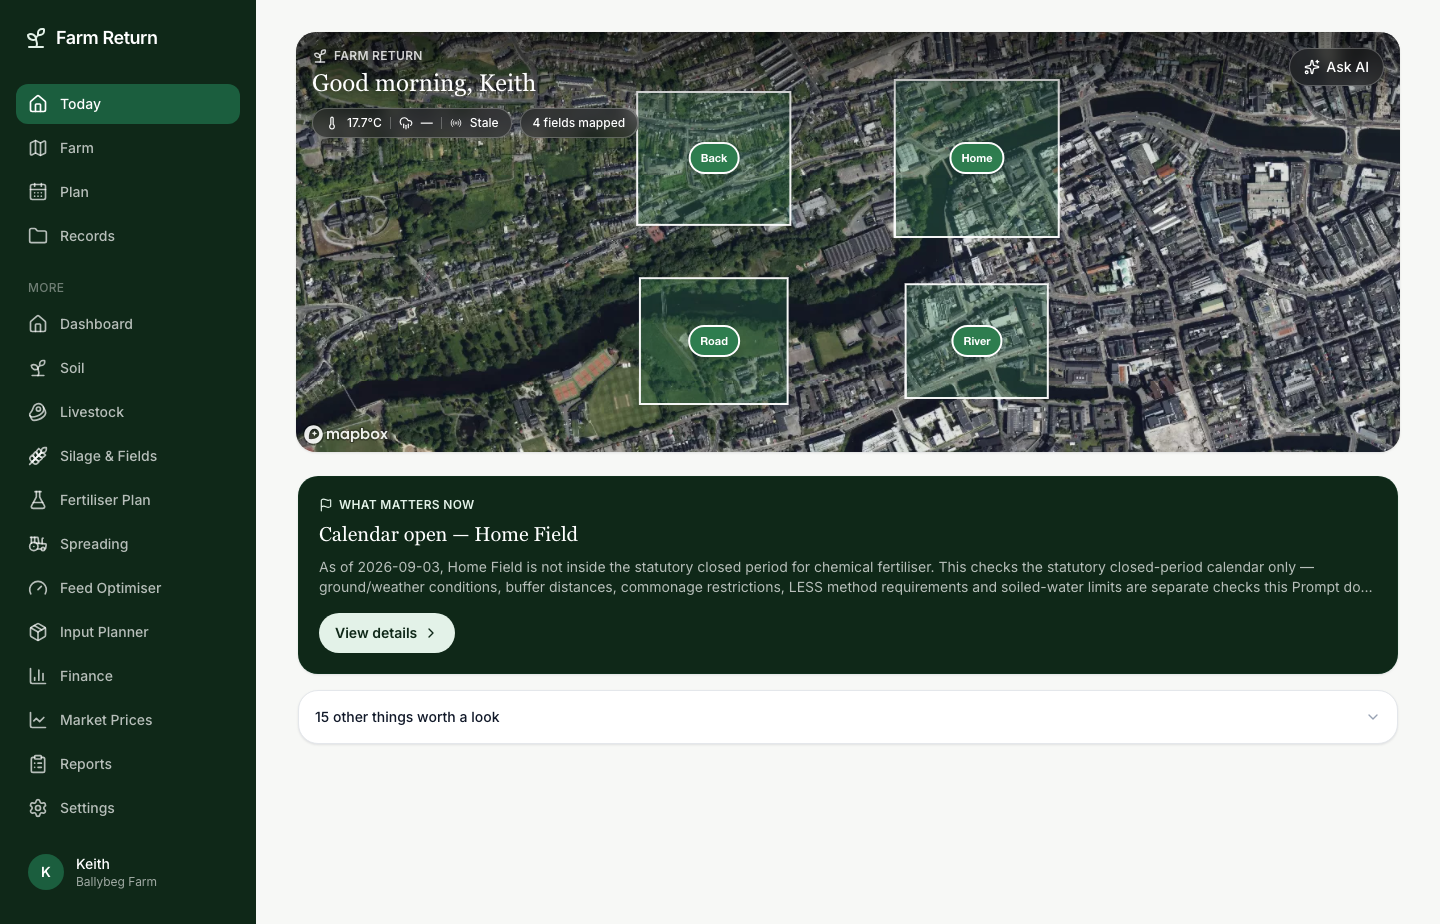
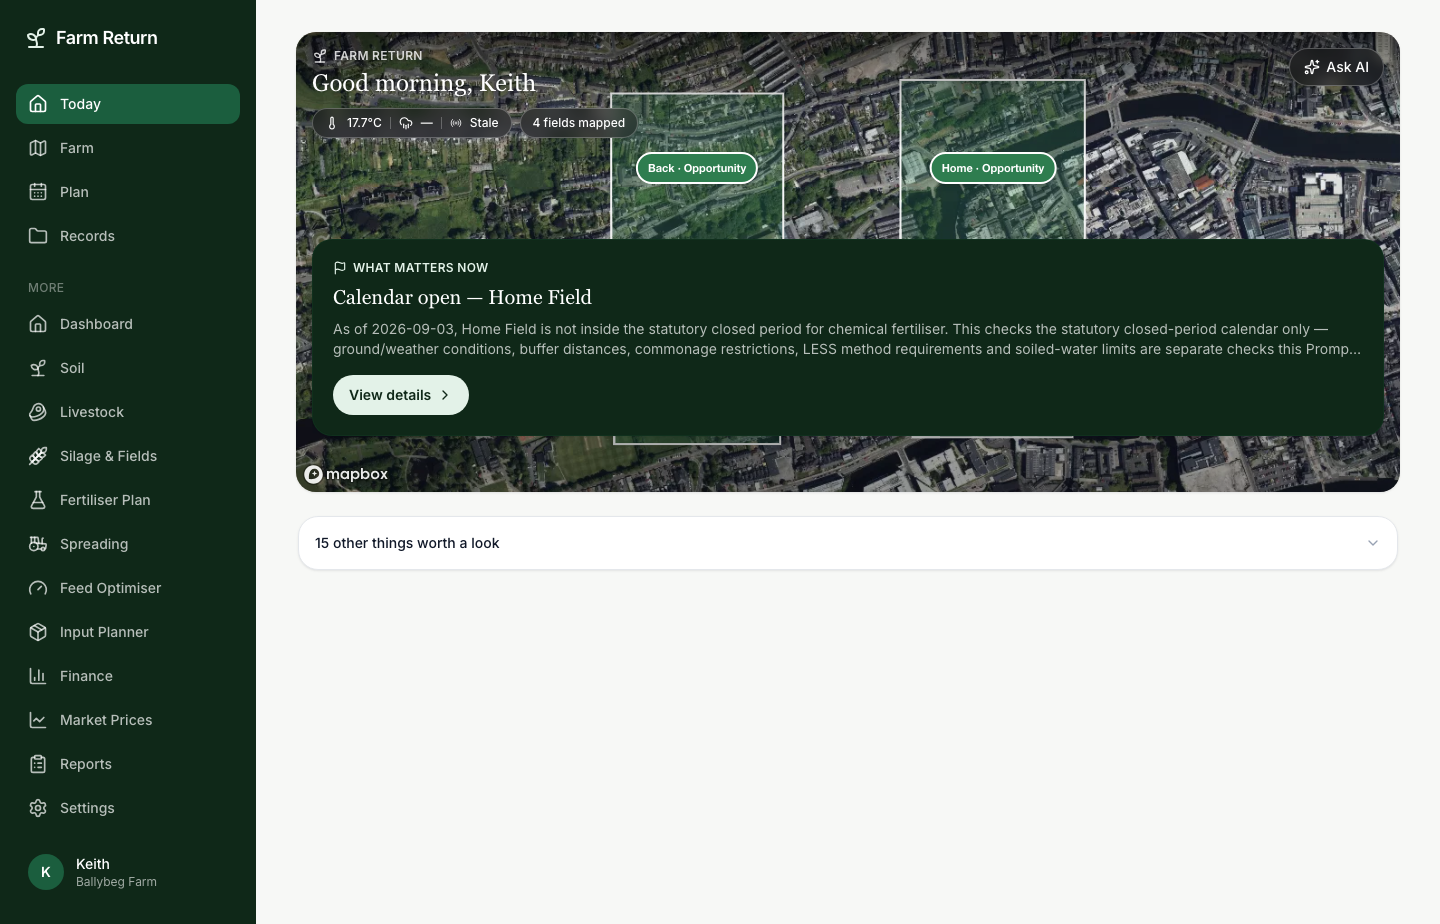
Phase V1 round 3: anchor the primary action inside the farm world
Codex visual audit round 2 (fidelity 5.6/10, still REDESIGN REQUIRED,
dashboard drift down to MEDIUM) on Today:

- High: map was a bounded 52vh header handing off to a separate white
  page. MapHero is now 72vh (mobile) / 460px (desktop) and the "What
  matters now" card lives *inside* the map's own surface — anchored
  near its bottom rather than below it — so the farm stays the visible
  environment around the primary action, not a header photo above a
  dashboard.
- High: markers showed only a field name, no operational state. Added
  `MapHero`'s `getStatusLabel` and Today's `fieldStatusLabel` — a real
  status word (Opportunity/Needs review/Restricted) alongside the
  colour, from the exact same per-field leading-Prompt derivation as
  the marker tone (`select-primary.ts`'s STATUS_RANK; not the spec's
  separate, unbuilt Ready/Active/To-confirm job vocabulary).
- Low: the required Mapbox logo was getting visually crowded by the
  overlapping card. The card's container now reserves pb-14 above the
  map's true bottom edge, matching round 2's own "clipped attribution"
  finding.

Not changed (accepted, out of scope for a visual-only rebuild): round
2's Medium finding that "Calendar open — View details" reads as
informational rather than a strong CTA. That copy is real regulatory
Prompt content and PromptCard's deliberate, documented choice not to
imply an Act-stage job that doesn't exist yet
(src/components/next/PromptCard.tsx's own header comment) — rewriting
[…]

diff --git a/src/app/(app)/today/page.tsx b/src/app/(app)/today/page.tsx
@@ -114,9 +114,32 @@ export default function TodayPage() {
   // about what needs attention right now). Reuses the exact same
   // ranking `selectPrimaryPrompt` already applies farm-wide, scoped to
   // one field's own real Prompts — no second priority scheme invented.
+  const leadingFieldPrompt = (fieldId: string) => selectPrimaryPrompt(allPrompts.filter((p) => p.fieldId === fieldId));
   const fieldTone = (fieldId: string) => {
-    const leading = selectPrimaryPrompt(allPrompts.filter((p) => p.fieldId === fieldId));
+    const leading = leadingFieldPrompt(fieldId);
     return leading ? promptStatusTone(leading.basis.status) : "neutral";
+  };
+  // Codex audit round 2 (Phase V1): tone alone (a marker's colour) didn't
+  // read as a genuine state — a short real status word alongside it,
+  // same STATUS_RANK-derived outcome as `fieldTone` above, not a second
+  // vocabulary (and deliberately not the spec's separate, unbuilt
+  // Ready/Active/To-confirm *job* states — this reads a field's real
+  // Prompt outcome, the only status this screen actually has).
+  const fieldStatusLabel = (fieldId: string) => {
+    const leading = leadingFieldPrompt(fieldId);
+    if (!leading) return undefined;
+    switch (leading.basis.status) {
+      case "LEGAL_PROHIBITION":
+        return "Restricted";
+      case "OK":
+        return "Opportunity";
+      case "AMBIGUOUS":
+      case "UNKNOWN":
+        return "Needs review";
+      case "BLOCKED_INSUFFICIENT_EVIDENCE":
+      case "NOT_APPLICABLE":
+        return undefined;
+    }
   };
 
   const askAIContext = {
@@ -155,20 +178,23 @@ export default function TodayPage() {
           truly edge-to-edge; restrained rounded corners return on
           desktop, where the shell's content column already has margin. */}
       <div className="relative -mx-4 -mt-4 lg:mx-0 lg:mt-0 lg:overflow-hidden lg:rounded-fr-card lg:shadow-fr-card">
+        {/* Codex audit round 2 (Phase V1): a bounded map header handing
+            off to a separate white page below still read as "map, then
+            dashboard" (dashboard drift: MEDIUM) — the primary action now
+            lives *inside* the map's own surface (anchored near its
+            bottom, `pb-14` clear of Mapbox's required logo, per round
+            2's "clipped attribution" finding) rather than below it, and
+            the map itself is taller so it reads as the environment the
+            farmer is standing in, not a header photo. */}
         <MapHero
           fields={fields}
           getTone={(field) => fieldTone(field.id)}
+          getStatusLabel={(field) => fieldStatusLabel(field.id)}
           onSelectField={(fieldId) => router.push(`/fields?field=${fieldId}`)}
           center={farm.location.centroid}
           plain
-          className="h-[52vh] min-h-[360px] lg:h-[420px]"
+          className="h-[72vh] min-h-[460px] lg:h-[460px]"
         >
-          {/* Everything lives in the top scrim, deliberately — the map's
-              own bottom edge stays clear so the floating "What matters
-              now" card below (`-mt-8` in the wrapper below) overlaps a
-              plain photo, never a second overlay's own content (a real
-              layout bug caught in Phase V1's own first screenshot:
-              docs/visual-audit/rebuild/v1-today/). */}
           <div className="absolute inset-x-0 top-0 flex flex-col gap-2.5 bg-gradient-to-b from-black/55 via-black/15 to-transparent p-4 pt-[max(env(safe-area-inset-top),1rem)]">
             <div className="flex items-start justify-between gap-3">
               <div className="min-w-0">
@@ -192,27 +218,29 @@ export default function TodayPage() {
               </span>
             </div>
           </div>
+
+          <div className="absolute inset-x-0 bottom-0 bg-gradient-to-t from-black/35 to-transparent px-4 pb-14 pt-10">
+            {!mounted ? (
+              <div className="animate-pulse rounded-fr-card bg-black/30 p-5">
+                <div className="h-5 w-40 rounded bg-white/20" />
+                <div className="mt-3 h-4 w-full rounded bg-white/20" />
+              </div>
+            ) : primaryPrompt ? (
+              <PromptCard prompt={primaryPrompt} onViewDetails={() => setOpenPrompt(primaryPrompt)} />
+            ) : (
+              <div className="rounded-fr-card border border-white/15 bg-black/35 p-5 backdrop-blur-sm">
+                <p className="text-sm text-white/90">
+                  {fields.length === 0
+                    ? "Map a field to start seeing real Prompts here."
+                    : "Nothing needs your attention right now."}
+                </p>
+              </div>
+            )}
+          </div>
         </MapHero>
       </div>
 
-      <div className="relative z-10 -mt-8 flex flex-col gap-4 px-0.5 lg:mt-6">
-        {!mounted ? (
-          <Card className="animate-pulse">
-            <div className="h-5 w-40 rounded bg-fr-surface-alt" />
-            <div className="mt-3 h-4 w-full rounded bg-fr-surface-alt" />
-          </Card>
-        ) : primaryPrompt ? (
-          <PromptCard prompt={primaryPrompt} onViewDetails={() => setOpenPrompt(primaryPrompt)} />
-        ) : (
-          <Card>
-            <p className="text-sm text-fr-ink-600">
-              {fields.length === 0
-                ? "Map a field to start seeing real Prompts here."
-                : "Nothing needs your attention right now."}
-            </p>
-          </Card>
-        )}
-
+      <div className="relative z-10 flex flex-col gap-4 px-0.5 pt-4 lg:pt-6">
         {/* Codex audit round 1 (Phase V1): a fully-expanded 5-row list
             here read as a conventional stacked-card feed, competing with
             the one "What matters now" action above it (dashboard drift:

diff --git a/src/components/farm/MapHero.tsx b/src/components/farm/MapHero.tsx
@@ -33,6 +33,7 @@ export function MapHero({
   getTone,
   selectedFieldId,
   onSelectField,
+  getStatusLabel,
   center,
   interactive = true,
   plain = false,
@@ -43,6 +44,11 @@ export function MapHero({
   getTone: (field: Field) => MapTone;
   selectedFieldId?: string;
   onSelectField?: (fieldId: string) => void;
+  /** Short real status word appended to a marker's name (e.g. "Ready",
+   * "Needs review") — Codex audit round 2 (Phase V1): a marker's colour
+   * alone didn't read as a genuine operational state. Omit to show just
+   * the field name (`FieldMap`'s existing badge-only convention). */
+  getStatusLabel?: (field: Field) => string | undefined;
   /** Fallback map centre (e.g. `Farm.location.centroid`) when no field has
    * a real boundary yet — still real data, never a hardcoded default. */
   center?: [number, number];
@@ -217,7 +223,8 @@ export function MapHero({
         silage: "#8BA23A",
       };
       el.style.backgroundColor = toneBg[tone];
-      el.textContent = field.name.replace(" Field", "");
+      const statusLabel = getStatusLabel?.(field);
+      el.textContent = statusLabel ? `${field.name.replace(" Field", "")} · ${statusLabel}` : field.name.replace(" Field", "");
       if (onSelectField) el.addEventListener("click", () => onSelectField(field.id));
       return new mapboxgl.Marker({ element: el, anchor: "center" }).setLngLat(field.centroid).addTo(map);
     });
